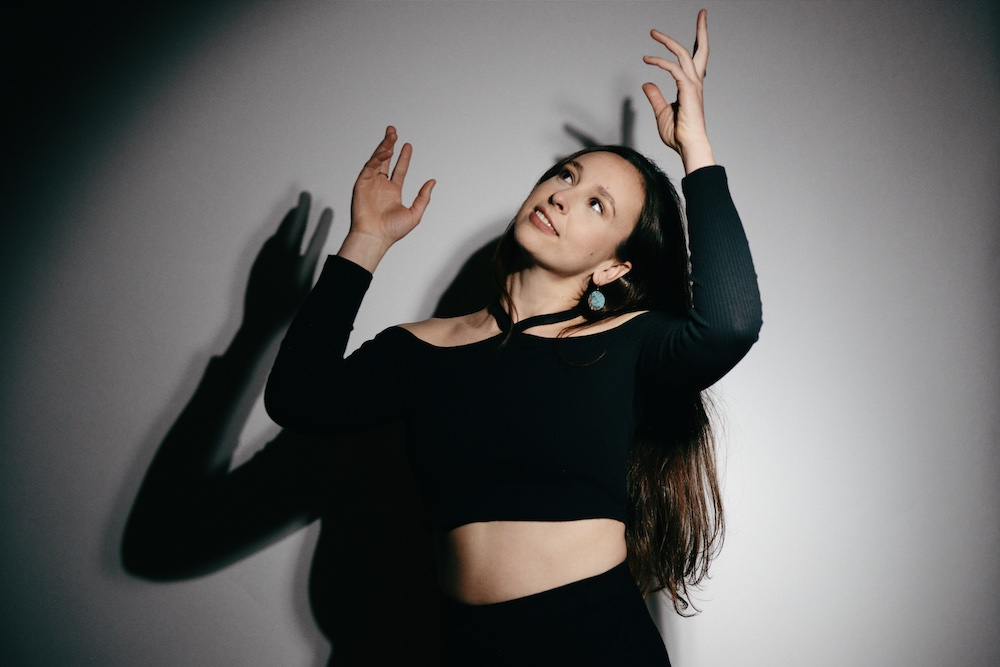
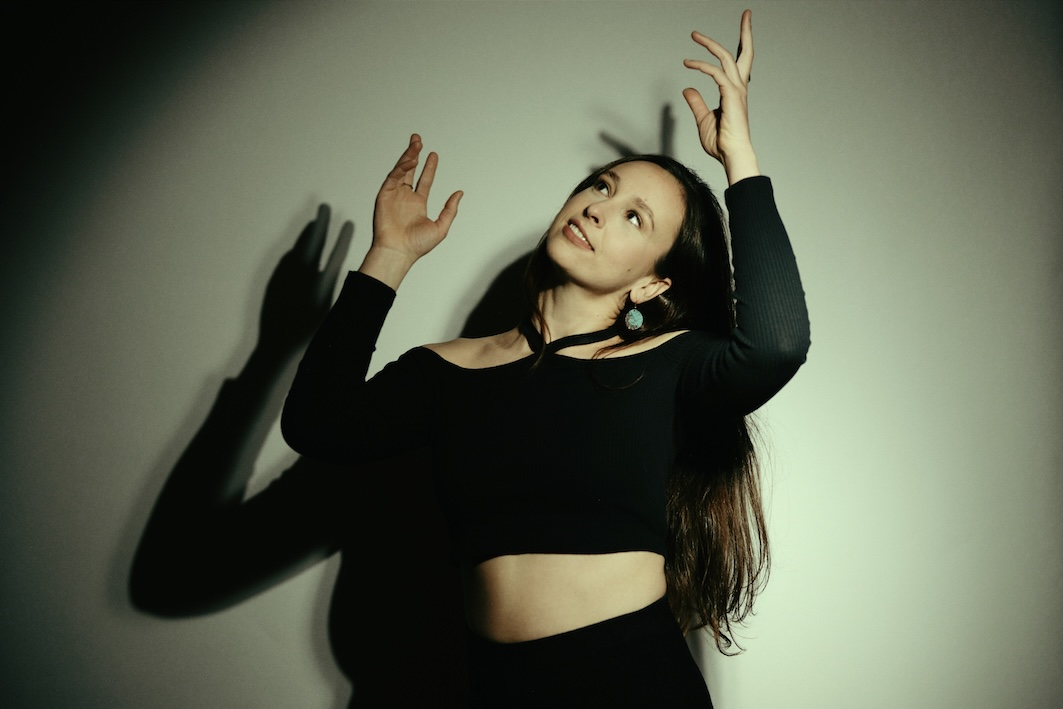
change main photo and add new bio

diff --git a/artist-website/src/app/components/bio/bio.component.html b/artist-website/src/app/components/bio/bio.component.html
@@ -7,15 +7,36 @@
 <div class="row mb-5">
     <div class="col-0 col-sm-1 col-md-3 col-lg-4"></div>
     <div class="col col-sm-10 col-md-6  col-lg-4 text-center m-3">
-        Kayleigh Beard is an electro one-woman act from Groningen, who released her debut album Ocean's Pulse in 2020. Her music combines dreamy beats with high spacious vocals. Kayleigh is inspired by artists such as Eefje de Visser, London Grammar, and Susanne Sundfør. Themes of nature and introspection play a central role in her music, inviting listeners to escape the daily turmoil and feel more connected to life. Kayleigh is known for her mystical music style and energetic live performances.
+        <h5>[ NL ]</h5>
+        Kayleigh Beard is een producer en one-woman-band uit Groningen die alternatieve elektronische pop maakt met
+        dreamy baslijnen en stevige beats. Haar muziek is zowel introspectief als energiek, en zowel atmosferisch als
+        dansbaar, gedragen door ruimtelijke zang en rijke synth-lagen. Na de release van haar debuutalbum in 2020 werd
+        ze geselecteerd voor de Popronde. Met ondersteuning van Sena ligt er nu een nieuw album op de plank: Mutations.
+        <br><br>
+        Dit album verkent de cyclus van verandering en de reis van kwetsbaarheid naar kracht. Het album is doordrenkt
+        met natuurmetafoor en vrouwelijke energie - een ontdekking van de wilde vrouw in jezelf in verbinding met de
+        aarde. Mutations wordt begin april verwacht en zal ook beschikbaar zijn op eco vinyl.
+        <br><br>
+        <h5>[ ENG ]</h5>
+        Kayleigh Beard is a producer and one-woman-band from Groningen who creates alternative electronic pop with
+        dreamy basslines and powerful beats. Her music is both introspective and energetic, as well as atmospheric and
+        danceable, carried by spacious vocals and rich synth layers. After the release of her debut album in 2020, she
+        was selected for the Popronde. With support from Sena, her new album is now in the works: Mutations.
+        <br><br>
+        This album explores the cycle of change and the journey from vulnerability to strength. The album is infused
+        with nature metaphors and feminine energy - a discovery of the wild woman within, connected to the earth.
+        Mutations is expected in early April and will also be available on eco vinyl. <br>
         <div class="row mt-2">
-            <div class="col-12 text-center m-2"><img src="../../../assets/images/kayleighbeard-simplon-Ioanalorgu.JPG"></div>
+            <div class="col-12 text-center m-2"><img src="../../../assets/images/kayleighbeard-simplon-Ioanalorgu.JPG">
+            </div>
             <div class="col-12 text-center m-2"><img src="../../../assets/images/kayleighbeard-SimplonUP.jpeg"></div>
-            <div class="col-12 text-center m-2"><img src="../../../assets/images/kayleighbeard-lola-janlenting.jpg"></div>
-            <div class="col-12 text-center m-2"><img src="../../../assets/images/kayleighbeard-lola-janlenting2.jpg"></div>
-            <div class="col-12 text-center m-2"><img src="../../../assets/images/kayleighbeard-simplon-deniseamber.jpg"></div>
+            <div class="col-12 text-center m-2"><img src="../../../assets/images/kayleighbeard-lola-janlenting.jpg">
+            </div>
+            <div class="col-12 text-center m-2"><img src="../../../assets/images/kayleighbeard-lola-janlenting2.jpg">
+            </div>
+            <div class="col-12 text-center m-2"><img src="../../../assets/images/kayleighbeard-simplon-deniseamber.jpg">
+            </div>
         </div>
     </div>
     <div class="col-0 col-sm-1 col-md-3  col-lg-4"></div>
 </div>
-
